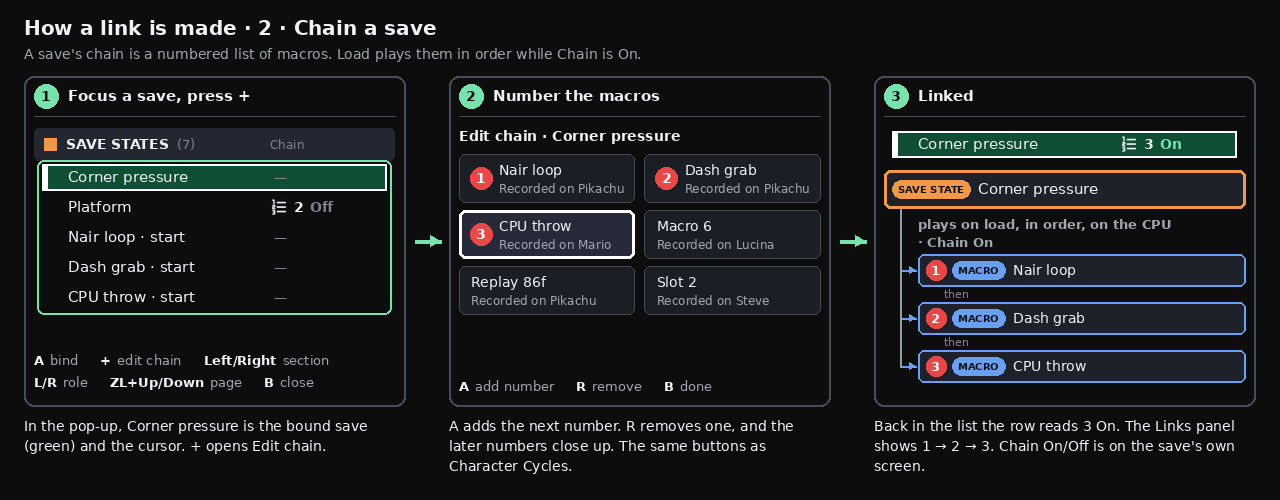
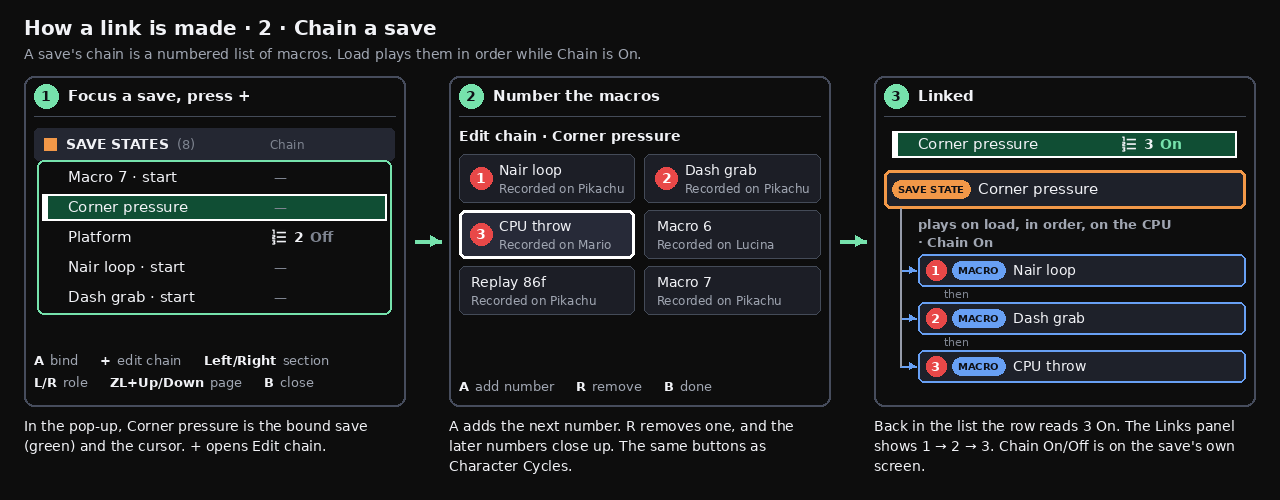
DECISIONS: RECORDING-REDESIGN revision 7.2, the five strips as one story
The primary's review of 31505a9. Strip 5 continues from strip 4: Corner to kill (the newest conversion) at the top with the cursor, Nair loop combo first in COMBOS and Ryu BnB the drill; after A, Corner to kill is green and Ryu BnB is no longer the drill, with the Links panel's Streak and Drilled kept. The story check found three more breaks, fixed: strip 1 showed Corner pressure already chained (strip 2 makes the chain); strip 2 showed SAVE STATES (7) without Macro 7 · start, which strip 1 had just added; and strip 2's picker left out Macro 7. The other 36 pictures are byte-identical to 31505a9.

Changed region(s): [[0.0312, 0.33, 0.3125, 0.63], [0.5625, 0.6, 0.625, 0.63], [0.5, 0.54, 0.5625, 0.57]]

diff --git a/tools/render_recording_redesign.py b/tools/render_recording_redesign.py
@@ -1427,7 +1427,8 @@ def flow_record(game):
         "branches": [{"label": "starts from", "out": True, "nodes": [("save", "Macro 7 · start", None, None, True)],
                       "none": ""}],
         "lines": []}, header=False)
-    sg = group_only("player", "save", None)
+    # Corner pressure has no chain yet: strip 2 makes it.
+    sg = group_only("player", "save", None, overrides={"pressure": {"chain": [], "chain_on": False}})
     srows = sg["sections"][0][2]
     # The most recently used save, so it is first in the hot five (the rest is below this view).
     new_save = dict(key="m7start", name="Macro 7 · start", fighters="Pikachu · Mario", chain=[], hot=True, new=True,
@@ -1442,9 +1443,14 @@ def flow_chain():
                        "while Chain is On.")
     b = strip_panel(img, 0, "Focus a save, press +", "In the pop-up, Corner pressure is the bound save (green) and the "
                     "cursor. + opens Edit chain.")
-    g = group_only("player", "save", "pressure", overrides={"pressure": {"chain": [], "chain_on": False}},
-                   keep={"pressure", "platform", "nairstart", "dashstart", "throwstart"})
-    frag_list(img, (b[0], b[1], b[2], b[3] - 56), [g], "pressure")
+    # The saves as strip 1 left them: eight files, Macro 7 · start the most recent, so CPU throw · start has left
+    # the hot five. Corner pressure has no chain yet.
+    srows = group_only("player", "save", "pressure",
+                       overrides={"pressure": {"chain": [], "chain_on": False}})["sections"][0][2]
+    m7start = dict(key="m7start", name="Macro 7 · start", fighters="Pikachu · Mario", chain=[], hot=True,
+                   active=False, cursor=False)
+    rows = [m7start] + [dict(r, hot=i < 4) for i, r in enumerate(srows)]
+    frag_list(img, (b[0], b[1], b[2], b[3] - 56), [section_group("SAVE STATES", "save", rows)], "pressure")
     foot = r5_foot("save", "cpu")
     keys_line(img, b[0], b[3] - 36, foot[:3], 13)
     keys_line(img, b[0], b[3] - 14, foot[3:], 13)
@@ -1458,7 +1464,7 @@ def flow_chain():
         {"name": "CPU throw", "sub": "Recorded on Mario", "number": 3, "cursor": True},
         {"name": "Macro 6", "sub": "Recorded on Lucina"},
         {"name": "Replay 86f", "sub": "Recorded on Pikachu"},
-        {"name": "Slot 2", "sub": "Recorded on Steve"},
+        {"name": "Macro 7", "sub": "Recorded on Pikachu"},
     ], [("A", "add number"), ("R", "remove"), ("B", "done")])
 
     b = strip_panel(img, 2, "Linked", "Back in the list the row reads 3 On. The Links panel shows 1 → 2 → 3. "
@@ -1547,9 +1553,10 @@ def flow_make_combo(game):
 def flow_drill(game, bar_picture):
     img = strip_canvas(5, "Drill a conversion", "One drill at a time: drilling a conversion replaces a drilled combo.")
     b = strip_panel(img, 0, "Pick it", "In the pop-up, the cursor on Corner to kill. A drills it.")
-    # The pop-up's stacked tab: CONVERSIONS on top with the cursor on Corner to kill (not yet green), COMBOS below
-    # with the current drill, Nair loop combo, green. Each section scrolls on its own.
-    convs, combos = tab_rows("corner", "nairc")
+    # The pop-up's stacked tab, as strip 4 left it: CONVERSIONS on top, Corner to kill (the newest) first with the
+    # cursor, not yet green; COMBOS below, Nair loop combo first and Ryu BnB, the current drill, green.
+    convs, combos = tab_rows("corner", "ryu")
+    combos = [r for r in combos if r["key"] == "nairc"] + [r for r in combos if r["key"] != "nairc"]
     frag_list(img, (b[0], b[1], b[2], b[1] + 102), [section_group("CONVERSIONS", "conv", convs)], "corner",
               cols=FRAG_STACK)
     frag_list(img, (b[0], b[1] + 110, b[2], b[1] + 212), [section_group("COMBOS", "combo", combos)], cols=FRAG_STACK)
@@ -1557,11 +1564,11 @@ def flow_drill(game, bar_picture):
     keys_line(img, b[0], b[3] - 36, foot[:3], 13)
     keys_line(img, b[0], b[3] - 14, foot[3:], 13)
 
-    b = strip_panel(img, 1, "It is the drill", "The row turns green, and Nair loop combo is no longer the drill. Its "
-                    "Links panel lists the combos in order, with the conversion's streak and best.")
+    b = strip_panel(img, 1, "It is the drill", "The row turns green, and Ryu BnB is no longer the drill. Its Links "
+                    "panel lists the combos in order, with the conversion's streak and best.")
     convs, combos = tab_rows("corner", "corner")
     one_row(img, b[0], b[1] - 4, b[2] - b[0], [r for r in convs if r["key"] == "corner"][0], "conv")
-    one_row(img, b[0], b[1] + 27, b[2] - b[0], [r for r in combos if r["key"] == "nairc"][0], "combo")
+    one_row(img, b[0], b[1] + 27, b[2] - b[0], [r for r in combos if r["key"] == "ryu"][0], "combo")
     # The Links panel as in the pop-up, with its streak and its Drilled line; the two rows above sit close to fit it.
     links_panel(img, (b[0], b[1] + 64, b[2], b[3]), links_spec("corner"), header=False)
 

diff --git a/docs/decisions/RECORDING-REDESIGN.md b/docs/decisions/RECORDING-REDESIGN.md
@@ -513,7 +513,7 @@ No other new sentence is added. A long chain, a missing combo, and an empty chai
 - Match: `artifacts/phase23/overlay-investigation/frames/fix-tr-training.png`. The old Input Playback notice in that frame is painted over with the sky beside it.
 - Renderer: `tools/render_recording_redesign.py`. Its default run draws revision 6's pop-up, page and macro-screen pictures, revision 7.1's CPU page view, the questions' pictures, `r5-switch-keep`, and the revision 4 pictures this doc uses. With `--q52` it draws only the question pictures. With `--r3` it draws the revision 3 pictures the repo keeps.
 - Icons: Google Material Symbols (`repeat`, `link`, `format_list_numbered`), https://github.com/google/material-design-icons, Apache License 2.0. The copies and the licence are in [icons/](icons/). The renderer fills their path data with Pillow at 8× and downsamples. The colours, the dot, and the count badge are added by the renderer.
-- Changed in revision 7.2: strips 2 to 5 (no Y in the pickers; the stacked Combos & Conversions tab with CONVERSIONS on top; Make combo keeps the drill; Nair loop combo stops being the drill), the three Recording page pictures ("A open"), the macro's own screen (one Set active row), the scrolled pop-up (seven files, scrolled to the end), and revision 3's `keyboard`, `crop` and `crop-macro` (the current groups; the crop's kept range is a bracket; the keyboard's background no longer shows a settings page's hints). With the Q1 amendment: `q1-ab`'s A side and the pickers in strips 2 and 4 read "A add number", "R remove". After review: the strips are reordered so that Make combo (now strip 3) comes before Make a conversion (now strip 4), which uses Nair loop combo; the file names stay. Strip 2's first panel is the pop-up, with its footer; the crop screens and the keyboard's background are file screens, full width with a breadcrumb. From the sweep: the loop mark's note names the SAVE STATES, CONVERSIONS and COMBOS section headers, and strip 5's Links panel keeps its Drilled line. The revision 3 pictures are drawn by `--r3`.
+- Changed in revision 7.2: strips 2 to 5 (no Y in the pickers; the stacked Combos & Conversions tab with CONVERSIONS on top; Make combo keeps the drill; Nair loop combo stops being the drill), the three Recording page pictures ("A open"), the macro's own screen (one Set active row), the scrolled pop-up (seven files, scrolled to the end), and revision 3's `keyboard`, `crop` and `crop-macro` (the current groups; the crop's kept range is a bracket; the keyboard's background no longer shows a settings page's hints). With the Q1 amendment: `q1-ab`'s A side and the pickers in strips 2 and 4 read "A add number", "R remove". After review: the strips are reordered so that Make combo (now strip 3) comes before Make a conversion (now strip 4), which uses Nair loop combo; the file names stay. Strip 2's first panel is the pop-up, with its footer; the crop screens and the keyboard's background are file screens, full width with a breadcrumb. The five strips read as one story: each starts where the one before it ends (Corner pressure gets its chain in strip 2, SAVE STATES holds eight files after strip 1, and Ryu BnB is the drill until strip 5 drills Corner to kill). From the sweep: the loop mark's note names the SAVE STATES, CONVERSIONS and COMBOS section headers, and strip 5's Links panel keeps its Drilled line. The revision 3 pictures are drawn by `--r3`.
 - New in revision 7.1: `RECORDING-REDESIGN-r7-page-cpu.png`, the Recording page's CPU view. Changed in revision 7.1: the pop-ups and pages with a bound save or an active macro, the legend, strips 1 and 2, the link diagram, and the save's own screen (one role per view, no role chips, Bind to Save / Load On · CPU). Removed in revision 7.1: `RECORDING-REDESIGN-r7-proposed.png`, with its section.
 - New in revision 7: `RECORDING-REDESIGN-q8-decided.png`. Changed in revision 7: every picture with a list or an action screen (no thumbtack, no Pin row, no Y in the footers, the hot five by recency), and every question picture (the chips read "A · decided" and "B · not chosen"). Removed in revision 7: `RECORDING-REDESIGN-q8-ab.png`, which `q8-decided` replaces.
 - New in revision 6: every `RECORDING-REDESIGN-r6-*.png`. Removed in revision 6: the revision 5 pop-up and page pictures, `q2-ab`, `q10-ab`, and revision 3's `macro-actions`.
